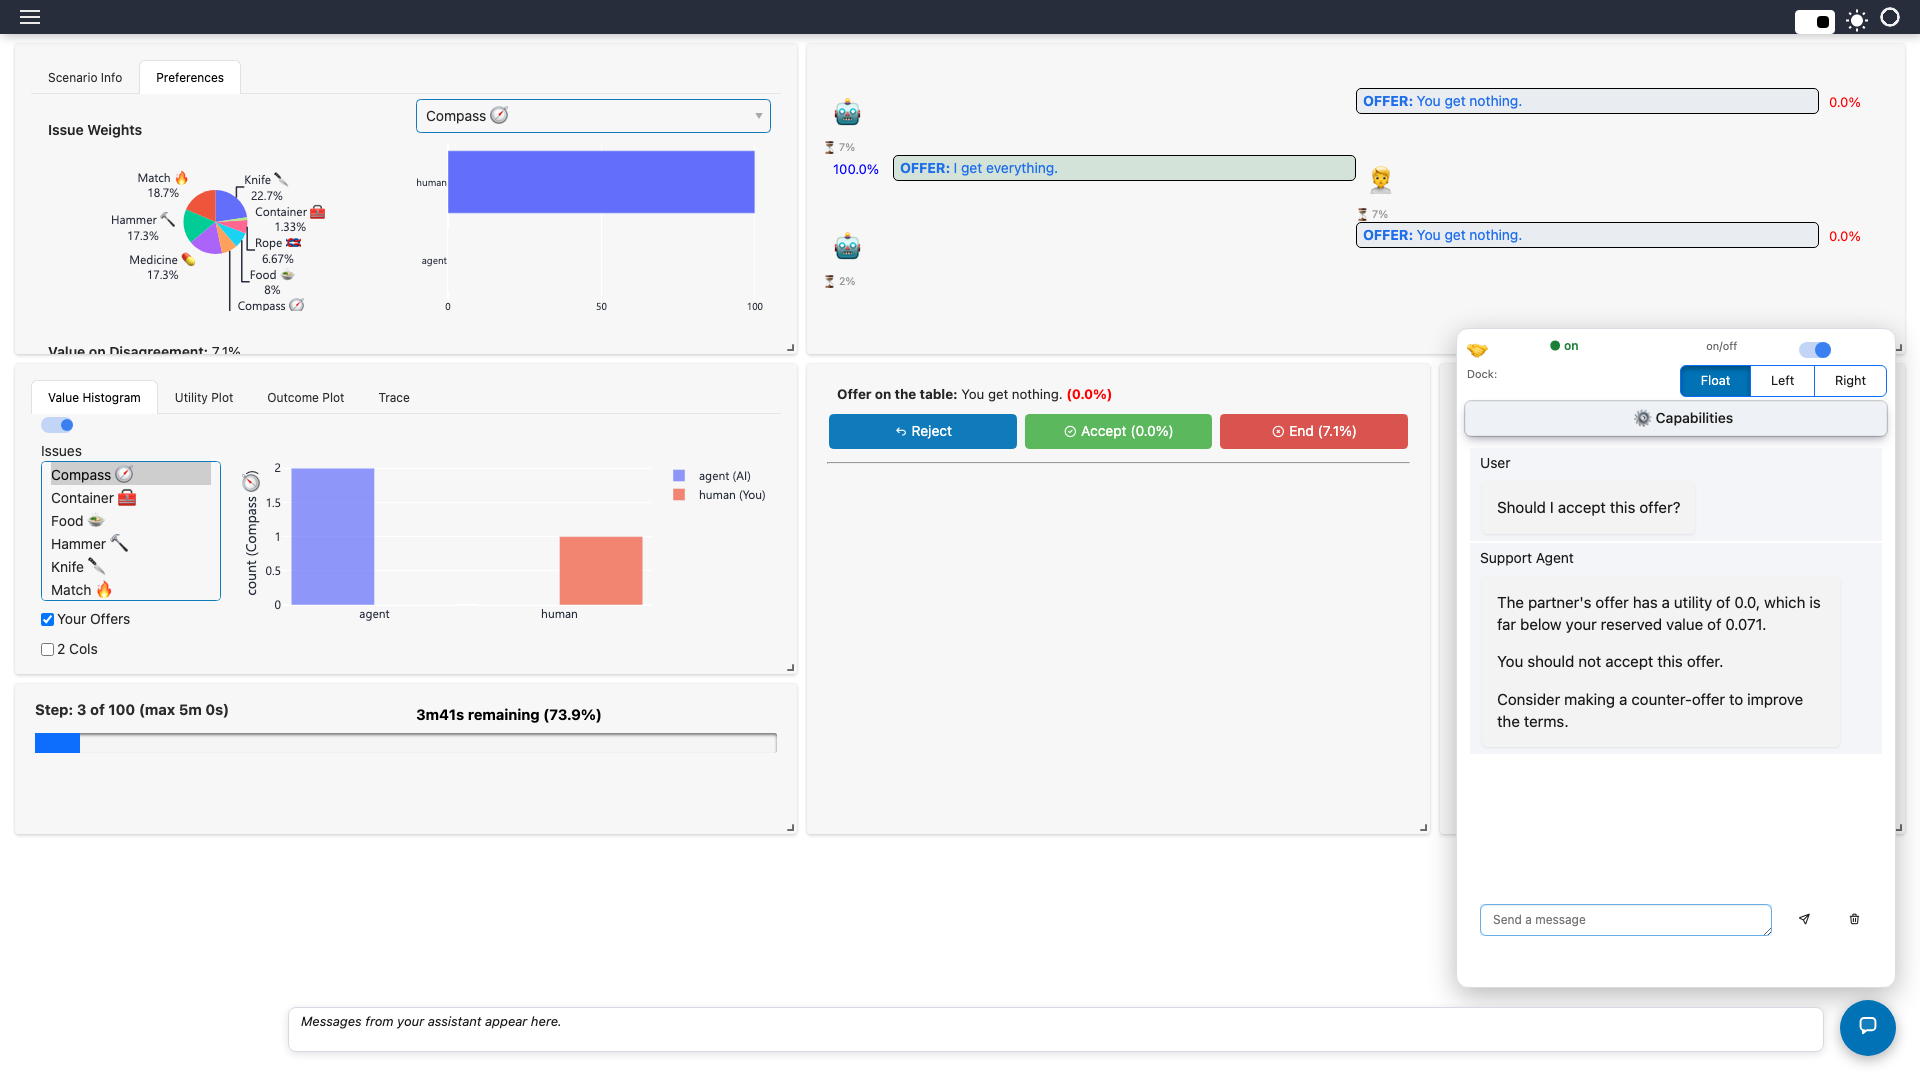
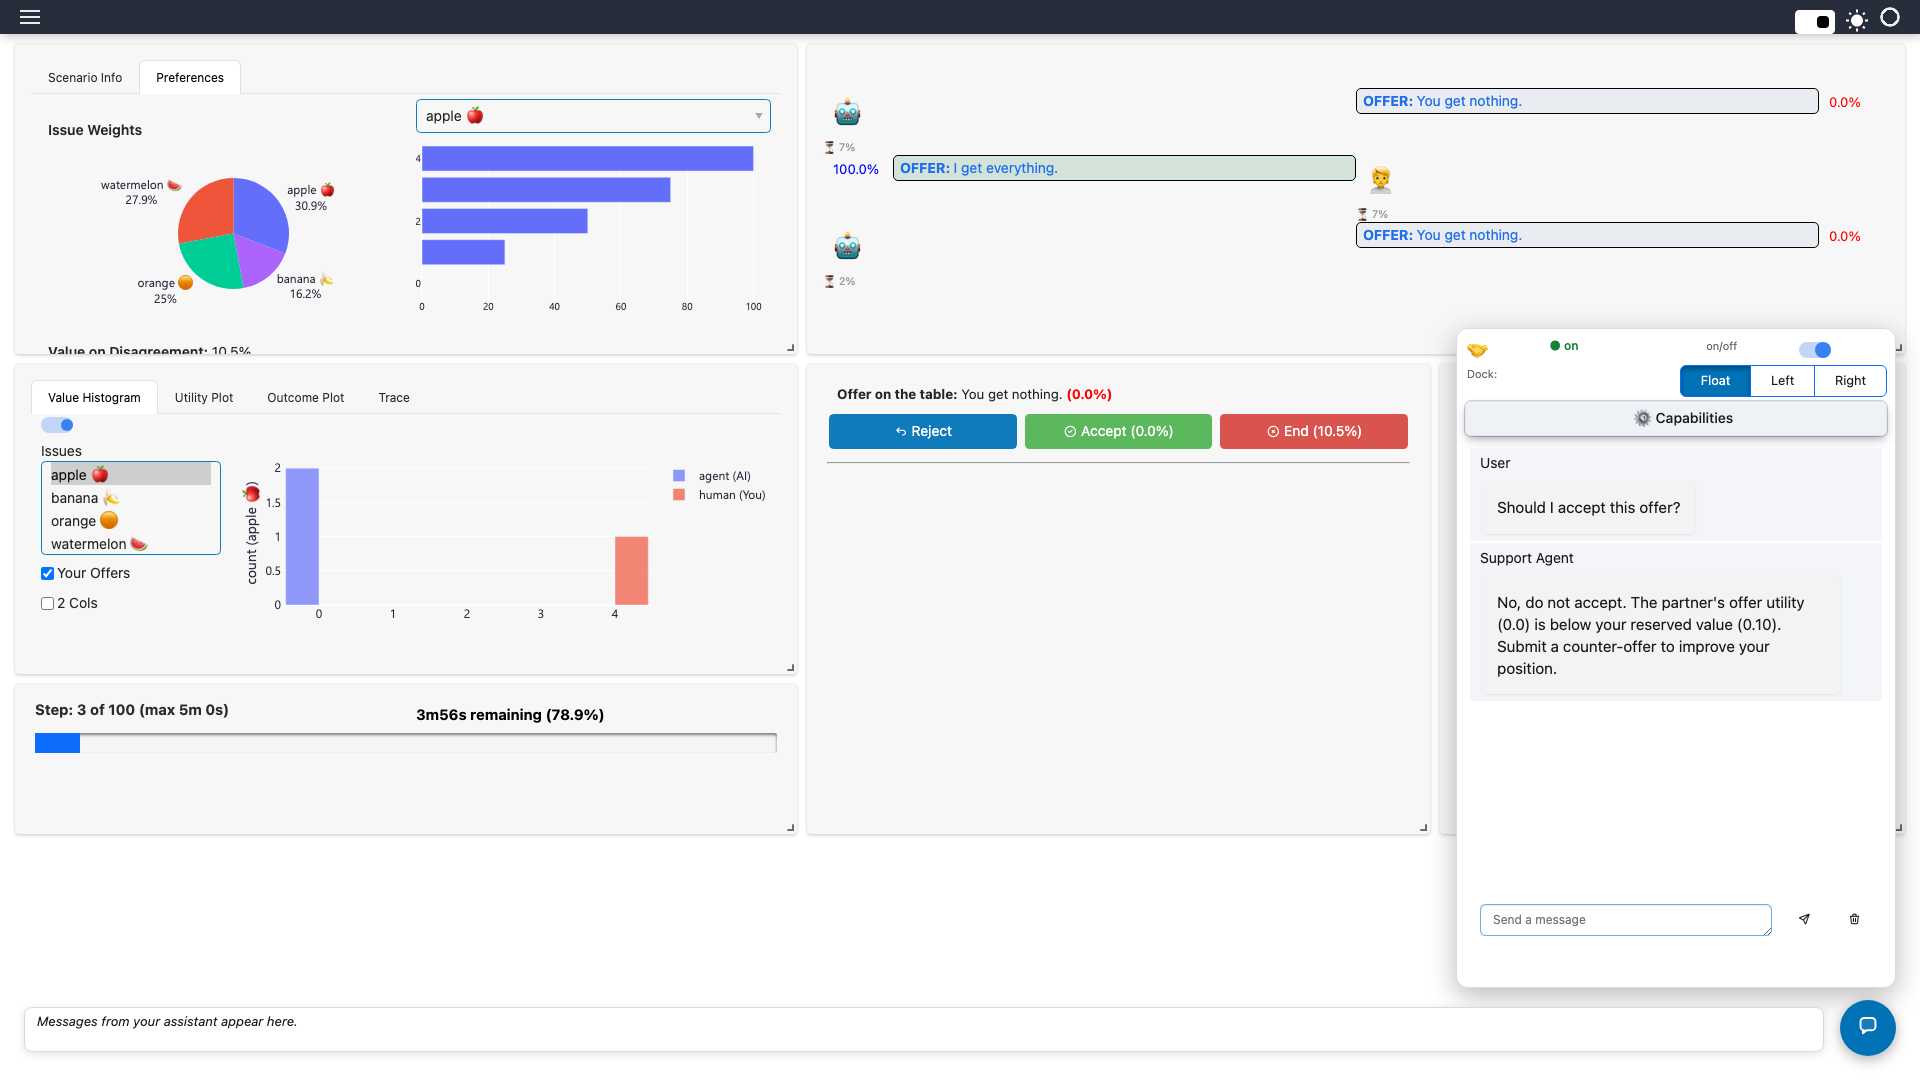
docs: recapture tutorial screenshots with Gemma; fix Ollama tool calling; widen message box
- Tutorial levels 3-7 screenshots made with gemma4:cloud (Ollama), now including the
  proactive toast and the coach filling in a counter-offer
- Fix: send tool calls/results to Ollama as text (litellm drops assistant tool_calls,
  so models looped on the same tool call)
- Agent message box spans nearly the full window width

Claude-Session: https://claude.ai/code/session_018CXUXZpmXKT8WLDZajxe6U

diff --git a/src/hani/support_agent/runtime.py b/src/hani/support_agent/runtime.py
@@ -37,6 +37,42 @@ _VALID_PROACTIVE_DELIVERY = {"toast", "board"}
 BOARD_PLACEHOLDER = "*Messages from your assistant appear here.*"
 
 
+def flatten_tool_messages(messages: list[dict]) -> list[dict]:
+    """Express tool calls and tool results as plain text.
+
+    litellm's Ollama chat transform rebuilds each message from only its role,
+    content, thinking and images: it drops an assistant message's ``tool_calls``,
+    so the model never learns it called a tool and cannot connect the following
+    ``tool`` result to anything (it typically calls the same tool again until the
+    loop limit). For Ollama we therefore send the call and its result as text. The
+    stored conversation is left untouched.
+    """
+    out: list[dict] = []
+    for m in messages:
+        role = m.get("role")
+        if role == "assistant" and m.get("tool_calls"):
+            calls = "; ".join(
+                f'{t["function"]["name"]}({t["function"].get("arguments") or "{}"})'
+                for t in m["tool_calls"]
+            )
+            out.append(
+                {
+                    "role": "assistant",
+                    "content": ((m.get("content") or "") + f"\n[tool call: {calls}]").strip(),
+                }
+            )
+        elif role == "tool":
+            out.append(
+                {
+                    "role": "user",
+                    "content": f'[tool result: {m.get("name", "tool")}] {m.get("content", "")}',
+                }
+            )
+        else:
+            out.append(m)
+    return out
+
+
 class SupportAgent:
     """Base Negotiation Support Agent.
 
@@ -556,9 +592,14 @@ class SupportAgent:
         import os
 
         s = self.settings
+        messages = (
+            flatten_tool_messages(self.messages)
+            if str(s["provider"]).lower() == "ollama"
+            else self.messages
+        )
         kwargs: dict[str, Any] = {
             "model": litellm_model_string(s["provider"], s["model"]),
-            "messages": self.messages,
+            "messages": messages,
             "temperature": s.get("temperature", 0.3),
         }
         if tools:

diff --git a/tests/test_support_agent.py b/tests/test_support_agent.py
@@ -619,3 +619,19 @@ def test_ask_user_and_message_user_are_tools():
     assert agent.dispatcher.execute("message_user", {"text": "hi"})["ok"]
     assert chat.sent[-1][1] == "hi"
     assert agent.dispatcher.execute("ask_user", {})["ok"] is False
+
+
+def test_flatten_tool_messages_for_ollama():
+    from hani.support_agent.runtime import flatten_tool_messages
+
+    history = [
+        {"role": "user", "content": "hi"},
+        {"role": "assistant", "content": "", "tool_calls": [
+            {"id": "1", "type": "function", "function": {"name": "assess", "arguments": "{}"}}]},
+        {"role": "tool", "tool_call_id": "1", "name": "assess", "content": '{"ok": true}'},
+    ]
+    flat = flatten_tool_messages(history)
+    assert [m["role"] for m in flat] == ["user", "assistant", "user"]
+    assert "assess" in flat[1]["content"] and "tool_calls" not in flat[1]
+    assert "tool result: assess" in flat[2]["content"] and '"ok": true' in flat[2]["content"]
+    assert "tool_calls" in history[1]  # the stored conversation is not modified

diff --git a/src/hani/support_agent/floating_ui.py b/src/hani/support_agent/floating_ui.py
@@ -370,7 +370,7 @@ def _build_status_board(session_state: dict[str, Any]) -> None:
     # A compact message box in the empty space beside the assistant's bubble
     # (bottom-right). position: fixed keeps it on screen at every window size and
     # it takes no room from the panels. It is always present (placeholder text
-    # until the agent writes), is up to 80% of the window wide, grows with its content up to 40% of the
+    # until the agent writes), spans the window (all but the bubble's corner), grows with its content up to 40% of the
     # viewport height
     # and scrolls only when the content is longer than that.
     board = pn.pane.Markdown(
@@ -380,7 +380,7 @@ def _build_status_board(session_state: dict[str, Any]) -> None:
             "position": "fixed",
             "bottom": "28px",
             "right": "96px",
-            "width": "min(80vw, calc(100vw - 130px))",
+            "width": "calc(100vw - 120px)",
             "z-index": "900",
             "color": "#1a1a1a",
             "background": "#ffffff",

diff --git a/src/hani/app.py b/src/hani/app.py
@@ -6733,8 +6733,8 @@ Use these `{tag}` placeholders in your prompts. They will be replaced with actua
                 pn.config.raw_css.append(
                     ".sa-board { position: fixed !important; bottom: 28px !important; "
                     "right: 96px !important; top: auto !important; left: auto !important; "
-                    "width: min(80vw, calc(100vw - 130px)) !important; "
-                    "max-width: calc(100vw - 130px) !important; z-index: 900 !important; }"
+                    "width: calc(100vw - 120px) !important; "
+                    "max-width: calc(100vw - 120px) !important; z-index: 900 !important; }"
                 )
         except Exception as e:  # noqa: BLE001 - never let the agent break the app
             print(f"Support agent: could not mount floating UI: {e}")

diff --git a/docs/tutorial.md b/docs/tutorial.md
@@ -197,23 +197,24 @@ class CoachAgent(SupportAgent):
         return COACH_PROMPT
 ```
 
-### Run a model locally with Ollama
+### Pick a model
 
-HANI's default support-agent model is a small local one, so nothing leaves your machine:
-
-```bash
-ollama pull qwen3:4b-instruct
-```
-
-(See [Setting up Ollama](ollama.md) for details, including using a cloud provider
-instead.) Then:
+The screenshots in Levels 3 to 7 were made with **Gemma** served through
+[Ollama](https://ollama.com) (`gemma4:cloud`), which follows instructions and calls tools
+reliably. Add it to your settings next to `agent_class`:
 
 ```json
-{ "agent_class": "level3_llm_coach:CoachAgent" }
+{
+  "agent_class": "level3_llm_coach:CoachAgent",
+  "provider": "ollama",
+  "model": "gemma4:cloud"
+}
 ```
 
-The `provider` and `model` default to `ollama` / `qwen3:4b-instruct`, so nothing else is
-needed. Restart, **Start**, make a counter-offer, and ask `Should I accept this offer?`:
+Any other [litellm](https://docs.litellm.ai) provider works too (see
+[Setting up Ollama](ollama.md)). A small local model such as the default `qwen3:4b-instruct`
+runs fully offline but follows tool instructions less reliably. Restart, **Start**, make a
+counter-offer (**Reject**, then **Send**) and ask `Should I accept this offer?`:
 
 ![Level 3: the LLM coach answering in the chat](assets/tutorial/level3-full.png)
 
@@ -289,7 +290,7 @@ class ToolCoachAgent(SupportAgent):
 
 Three pieces: a **schema** that tells the model what the tool is for, a **handler** that
 does the work and returns a dict, and `dispatcher_class` to plug it in. Set
-`{ "agent_class": "level4_tools:ToolCoachAgent" }`, restart, and ask
+`{ "agent_class": "level4_tools:ToolCoachAgent", "provider": "ollama", "model": "gemma4:cloud" }`, restart, and ask
 `Should I accept this offer?`:
 
 ![Level 4: the coach consulting its assess_partner_offer tool](assets/tutorial/level4-full.png)
@@ -353,19 +354,23 @@ let it fill in offers but never send, accept or end on its own:
 * Turning off `submit_counter`, `accept` and `end` removes those tools from the model
   entirely.
 
-Restart, click **Start**, make a counter-offer and ask `Propose a counter-offer`. The
-coach uses its tool to judge the partner's offer against your reserved value and the
-current target, and answers with a concrete recommendation:
+Add `"provider": "ollama", "model": "gemma4:cloud"` as before, restart and click **Start**.
+Make a counter-offer (**Reject**, then **Send**). When the partner answers, the coach speaks
+up **by itself**, as a pop-up (proactive messages are delivered as a toast by default; the
+participant can switch to the status box in the chat panel's settings):
 
-![Level 5: the finished Deal Coach recommending a counter-offer](assets/tutorial/level5-full.png)
+![Level 5: a proactive recommendation as a toast](assets/tutorial/level5-proactive-full.png)
 
-!!! note "Proactive notes and small models"
-    With `on_action_requested` enabled, the agent also takes a turn by itself each time it
-    is your turn. Proactive messages are delivered as a **toast** by default (the
-    participant can switch to the status board in the chat panel's settings). They only
-    appear if the model produces text, and a 4B local model can stay silent or ignore
-    instructions such as "fill in the offer fields". For reliable proactive advice and
-    offer filling, point `provider` / `model` at a stronger model.
+Now click **Reject** to open the offer editor and ask `Propose a counter-offer`. The coach
+uses its tool, then **fills in the offer fields and the message** for you to review. It does
+not send anything, because the settings only allow `suggest`; you press **Send**:
+
+![Level 5: the coach fills in a counter-offer for review](assets/tutorial/level5-fill-full.png)
+
+!!! note "Models and tools"
+    Proactive notes and offer filling depend on the model producing the right tool calls.
+    If a small model stays silent or ignores an instruction, try a stronger one through
+    `provider` / `model`.
 
 !!! success "Experiment"
     Open the **⚙ Capabilities** panel in the chat. You can switch capabilities off, or
@@ -507,6 +512,11 @@ appears with one button per option:
 Click **Aggressive** (or type your own answer). The agent acknowledges and carries on:
 
 ![Level 7: the agent adapts to the answer](assets/tutorial/level7-answer-full.png)
+
+Now make a counter-offer and ask `Should I accept this offer?`. The coach's advice follows
+the style you picked (here it prepares an aggressive counter-offer instead of accepting):
+
+![Level 7: advice in the chosen style](assets/tutorial/level7-advice-full.png)
 
 !!! warning "`ask_user` blocks"
     Call it from a worker thread — `on_event`, `handle_user_message` or a tool handler —

diff --git a/CHANGELOG.md b/CHANGELOG.md
@@ -7,6 +7,20 @@ and this project adheres to [Semantic Versioning](https://semver.org/spec/v2.0.0
 
 ## [Unreleased]
 
+### Fixed
+- Tool calling with the Ollama provider: litellm's Ollama chat transform drops an
+  assistant message's `tool_calls`, so models never saw that they had called a tool and
+  repeated the same call until the loop limit ("Stopped after too many tool calls").
+  Tool calls and results are now sent to Ollama as plain text (the stored conversation is
+  unchanged).
+
+### Changed
+- The agent message box beside the assistant bubble now spans nearly the full window width.
+
+### Documentation
+- Tutorial screenshots for Levels 3 to 7 recaptured with Gemma (`gemma4:cloud`) via
+  Ollama, now showing the proactive toast and the coach filling in a counter-offer.
+
 ## [0.4.0] - 2026-11-16
 
 ### Added
